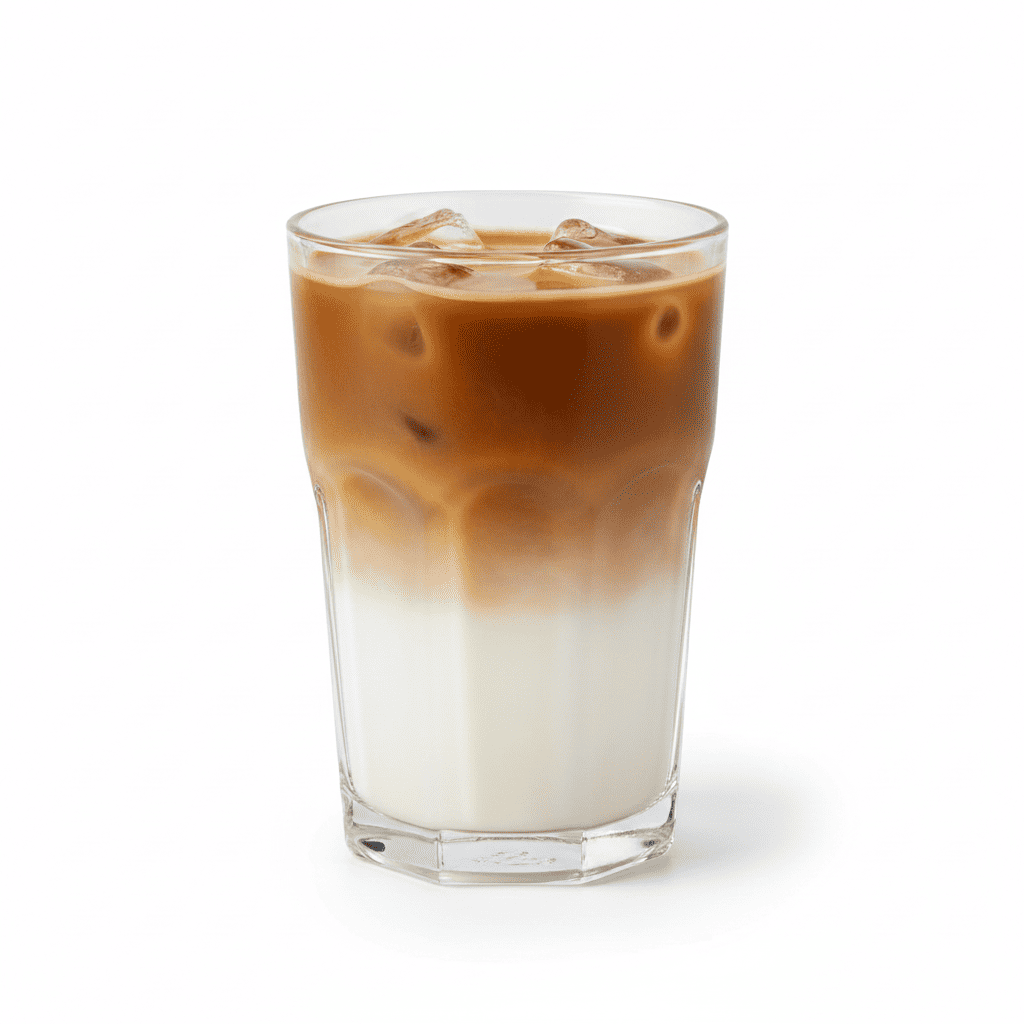
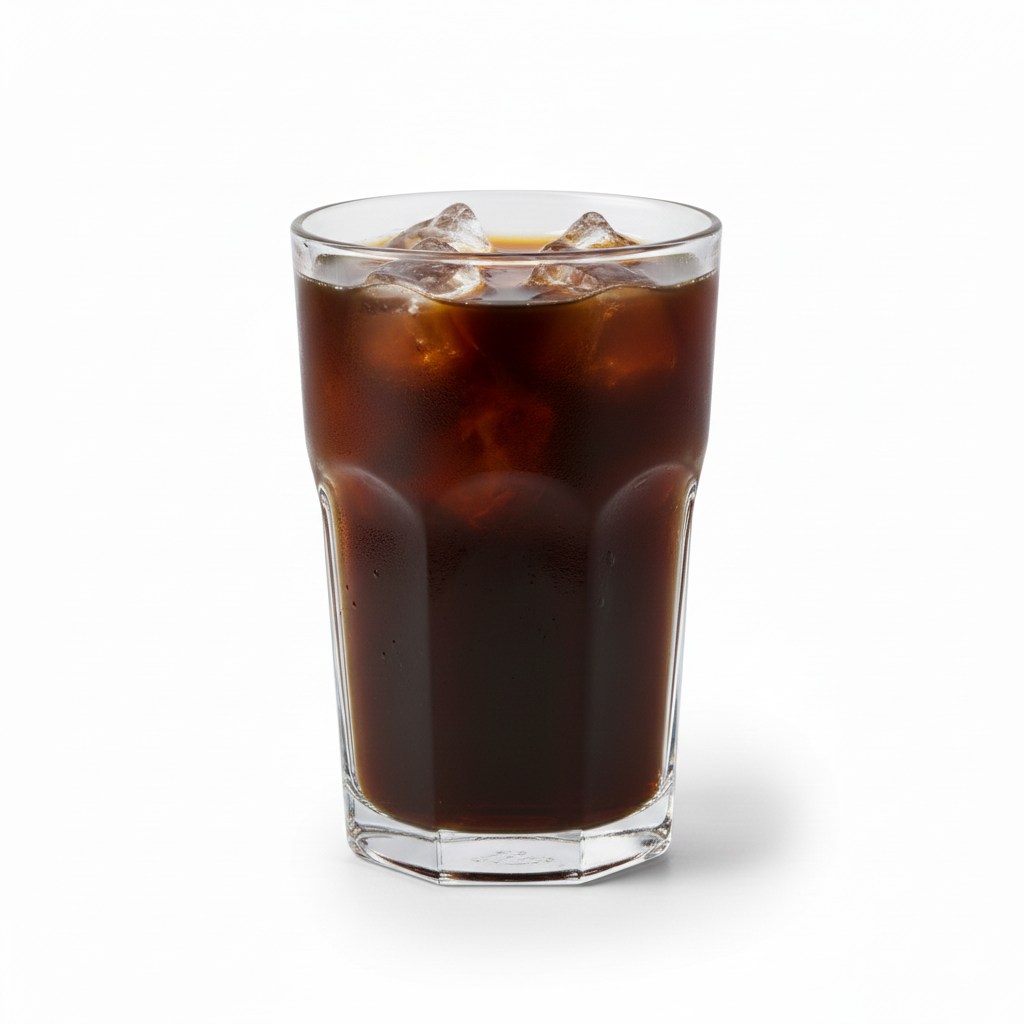
1211 단일 메뉴 이미지 변경 구현

Changed region(s): [[0.2812, 0.1875, 0.7188, 0.875]]

diff --git a/Client/src/KioskApp.js b/Client/src/KioskApp.js
@@ -353,15 +353,16 @@ export default function KioskApp() {
         });
         recommendTextMode = 'personal';  // ⭐ 자주 드시던 메뉴 모드
       } else {
-        // ⭐ [변경 후] 추천 버튼만 눌렀을 때: 3개만 보여주기
-        const RECOMMEND_NAMES = ['아메리카노', '카페라떼', '카푸치노'];
+      // ⭐ [변경] 이름 대신 ID 목록을 사용 (DB에 저장된 정확한 id 입력 필수)
+      const RECOMMEND_IDS = ['americano', 'latte', 'citron_tea','lemonade','misutgaru','piece_cake','castella','croffle','sandwich'];
 
-        // 이름 기준으로 메뉴 객체 찾아서, 순서도 고정
-        displayData = RECOMMEND_NAMES
-          .map((name) => menus.find((m) => m.name === name))
-          .filter(Boolean); // 혹시 없는 메뉴는 제거
-           recommendTextMode = 'today';     // ⭐ 오늘의 추천 메뉴 모드
-      }
+      // id 기준으로 메뉴 객체 찾아서, 순서도 고정
+      displayData = RECOMMEND_IDS
+        .map((id) => menus.find((m) => m.id === id))
+        .filter(Boolean); // 혹시 ID가 틀려서 못 찾은 경우(undefined) 제거
+        
+      recommendTextMode = 'today';     // ⭐ 오늘의 추천 메뉴 모드
+    }
     } else {
       displayData = menus.filter(m => m.category === selectedCategory);
     }

diff --git a/Client/src/components/KioskScreens.js b/Client/src/components/KioskScreens.js
@@ -411,7 +411,9 @@ export function ScreenMenu({
             items.map((item) => {
               const price = item.price || 0;
 
-              const imgFileName = item.images ? item.images.hot : null;
+              const imgFileName = item.images 
+                ? (item.images.hot || item.images.ice || item.images.only) 
+                : null;
               const imgSrc = imgFileName ? `/images/menus/${imgFileName}` : null;
               const name = item.name || '메뉴';
 
